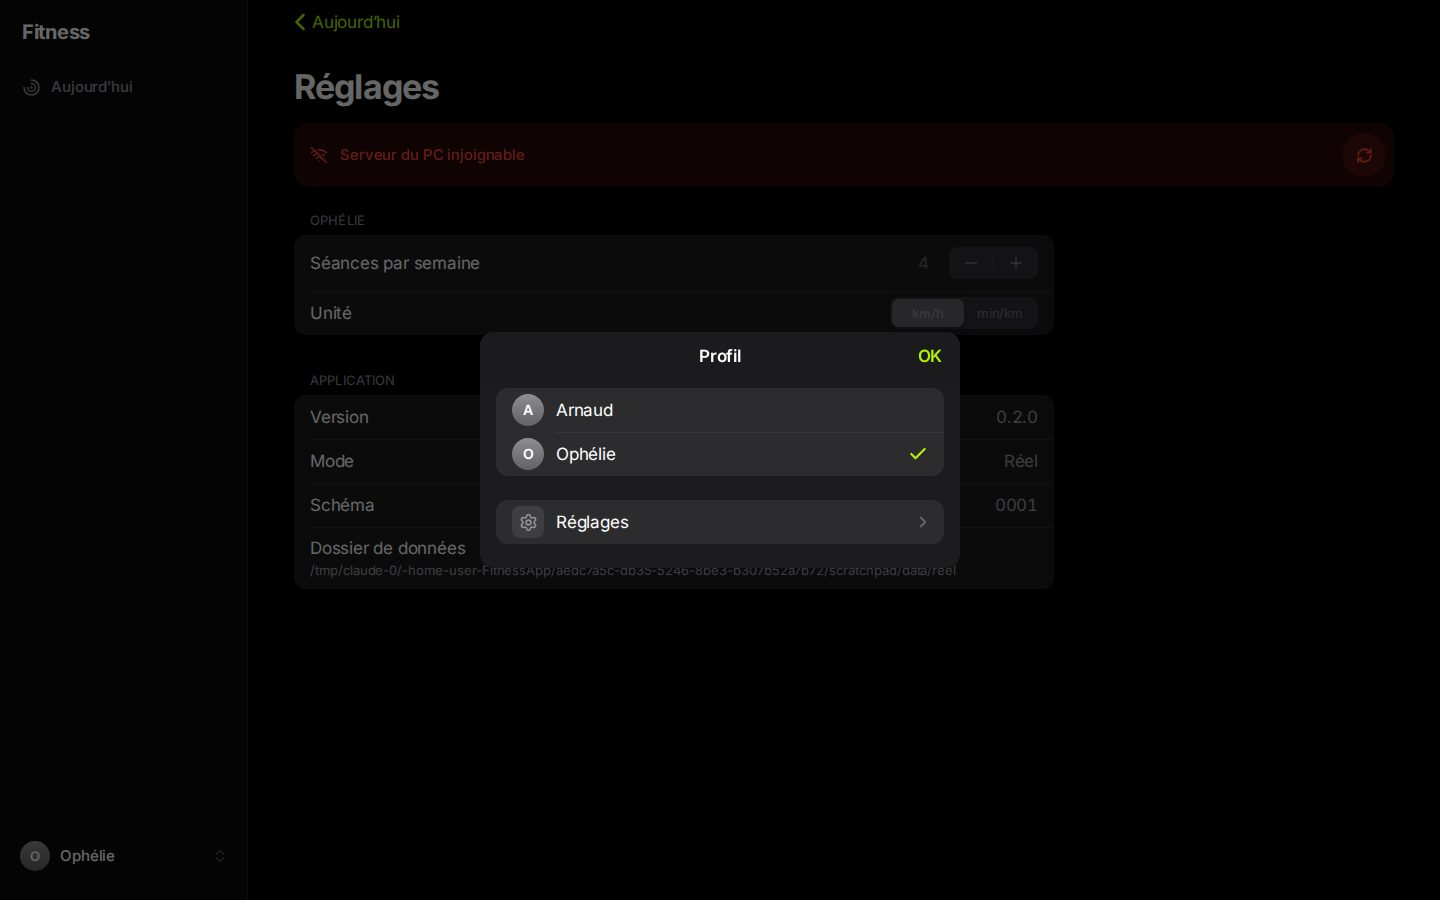
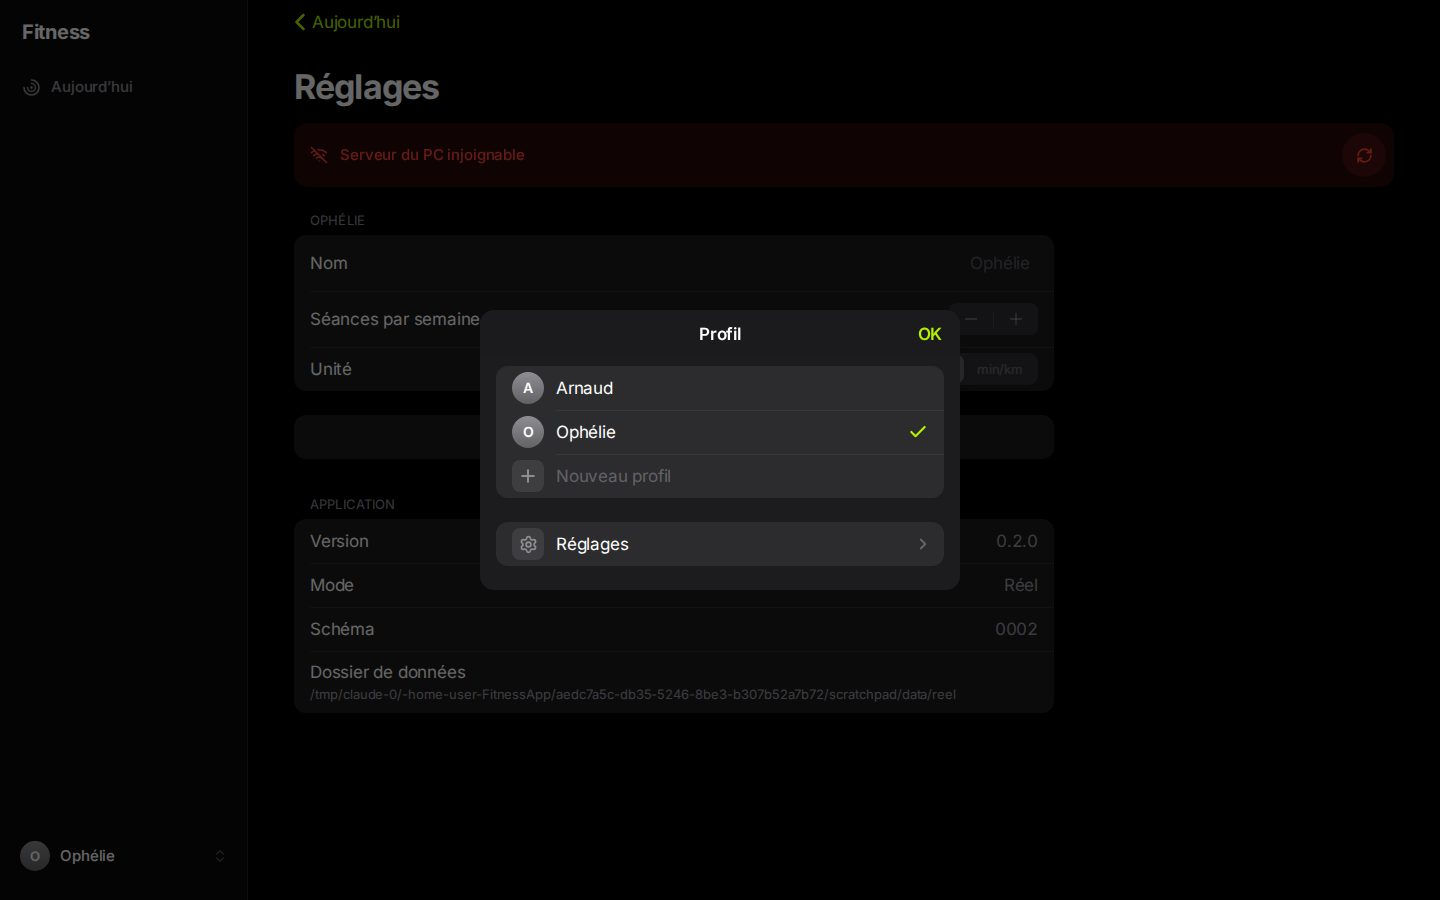
Brique 2 · Profils : preuves, plan et documentation du complément
- Plan : brique 2 élargie (créer, renommer, supprimer, données propres
  à chaque profil), critère de suppression ajouté ; règle permanente 8
  des données (cascade par profil). Toujours en attente de validation.
- Preuves : 28 captures régénérées sur le schéma 0002, dont création,
  renommage refusé et confirmation de suppression ; INDEX.md et
  parcours.cjs (96 contrôles).
- README : gestion des profils.

Limites : téléphone physique et Windows non essayés ; propagation d'un
nouveau profil vers un autre appareil vérifiée au rechargement, pas en
direct.

Claude-Session: https://claude.ai/code/session_01LyXYkuBP4b7VPFYeGeT4Py

diff --git a/README.md b/README.md
@@ -19,7 +19,7 @@ Le double-clic équivaut à `.\start-app.ps1 -Reseau -Ouvrir`. Sans `-Reseau`, l
 
 Si le port 4330 est déjà utilisé, le script affiche une erreur explicite : ouvrir l'app déjà lancée ou arrêter sa fenêtre avec `Ctrl+C`. `-Port 4331` permet de choisir un autre port. `-Reconstruire` force une nouvelle construction de l'interface.
 
-Les données vivent dans `%LOCALAPPDATA%\FitnessApp\reel` (ou `\simulation`), dans une base SQLite `fitness.db` par mode. Au démarrage, le serveur met la base à jour (migrations Alembic de `backend/storage/`) avant d'accepter les requêtes ; si la mise à jour échoue, il ne démarre pas et affiche le chemin de la base et la cause. Arnaud et Ophélie sont créés au premier lancement (objectif 3 séances par semaine, km/h), puis modifiables dans Réglages. Chaque appareil retient son profil dans le navigateur ; ce n'est pas une authentification. Le POC reste sur son port et son lanceur distincts. L'application se construit brique par brique selon le [plan](PLAN_V1_FITNESS_APP.md), avec le [design](DESIGN.md).
+Les données vivent dans `%LOCALAPPDATA%\FitnessApp\reel` (ou `\simulation`), dans une base SQLite `fitness.db` par mode. Au démarrage, le serveur met la base à jour (migrations Alembic de `backend/storage/`) avant d'accepter les requêtes ; si la mise à jour échoue, il ne démarre pas et affiche le chemin de la base et la cause. Arnaud et Ophélie sont créés au premier lancement (objectif 3 séances par semaine, km/h). Depuis la feuille Profil (avatar) et Réglages, on crée, renomme et supprime des profils ; la suppression efface le profil et toutes ses données, et il reste toujours au moins un profil. Chaque appareil retient son profil dans le navigateur ; ce n'est pas une authentification. Le POC reste sur son port et son lanceur distincts. L'application se construit brique par brique selon le [plan](PLAN_V1_FITNESS_APP.md), avec le [design](DESIGN.md).
 
 # RUN500 LAB — POC de connectivité et de commandes
 
